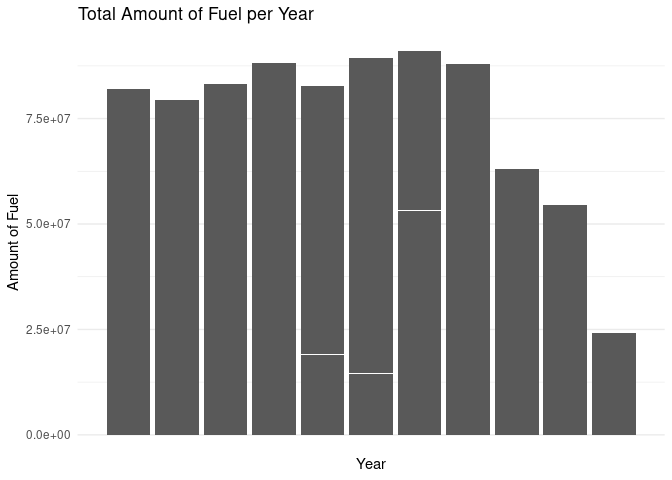
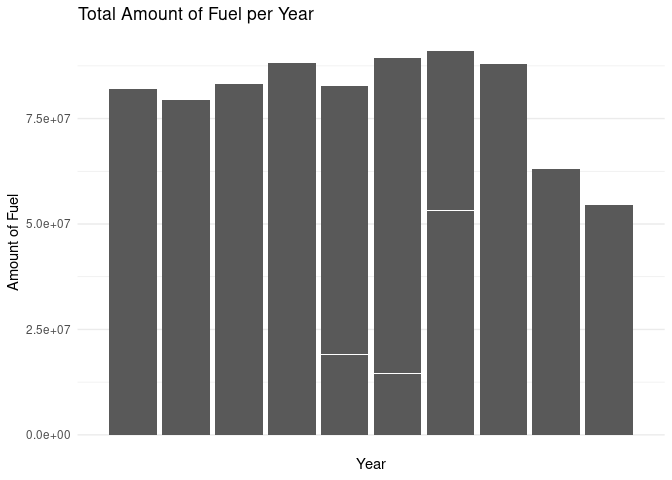
Change data cleaning steps

diff --git a/memo/memo.md b/memo/memo.md
@@ -57,7 +57,7 @@ left_join(area)
 
     ## Joining with `by = join_by(Building)`
 
-### Step 2: Change Delivery Date
+### Step 2: Change Delivery Date & Remove top extra row
 
 ``` r
 fuels <- fuels |>
@@ -119,15 +119,7 @@ fuels <- fuels |>
   mutate(Unit_cost = as.numeric(Unit_cost))
 ```
 
-### Step 7: Add total gallons per building variable
-
-``` r
-# fuels <- fuels |>
- #  group_by(Building) |>
- #  mutate(Total_Gallons_per_Building = sum(Gallons))
-```
-
-### Step 8: Add year and month variables
+### Step 7: Add year and month variables
 
 ``` r
 fuels <- fuels |>
@@ -137,23 +129,7 @@ fuels <- fuels |>
   mutate(Month = as.numeric(Month))
 ```
 
-### Step 9: Add total gallons per fuel type variable
-
-``` r
-fuels <- fuels |>
-  group_by(Fuel_type) |>
-  mutate(Total_Gallons_per_Fuel_Type = sum(Gallons))
-```
-
-### Step 10: Add total gallons per year variable
-
-``` r
-fuels <- fuels |>
-  group_by(Year) |>
-  mutate(Total_Gallons_per_year = sum(Gallons))
-```
-
-### Step 11: Change square feet to numeric
+### Step 8: Change square feet to numeric
 
 ``` r
 fuels <- fuels |>
@@ -165,48 +141,33 @@ fuels <- fuels |>
   mutate(Square_feet = as.numeric(Square_feet))
 ```
 
-### Step 12: Add total gallons per square foot
-
-``` r
-# fuels <- fuels |>
- # mutate(total_per_sf = (Total_Gallons_per_Building / Square_feet))
-```
-
 ### Step ?: Ignore for now I’m working on it but am confused
 
+``` r
 # make one big function
 
-# main_total_fuels \<- data.frame(
-
-# Building = unique(fuels$Building),
+# main_total_fuels <- data.frame(
+#  Building = unique(fuels$Building),
 #  Total_Gallons = unique(fuels$Total_Gallons_per_Building)
-
 # )
 
-# main_total_fuels \|\>
+# main_total_fuels |>
+#   filter(Building == c("Witchcliff Apartments", "Witchcliff","Studio 5+6","PRF",
+#                        "Pottery Studio","Peggy Barn", "Peach House", "Hatchery", "Greenhouse", 
+#                        "Davis Carriage", "Cottage", "CHE Generator", "Carriage", 
+#                        "BHF New Greenhouse", "BHF Main Bldg/2 Greenhouse", "BHF Farm House", 
+#                        "18B Norris Ave", "171 Beech Hill Road", "14 Norris Ave")) |>
+#   (Other_Gallons <- sum(Total_Gallons))
 
-# filter(Building == c(“Witchcliff Apartments”, “Witchcliff”,“Studio 5+6”,“PRF”,
+# with(main_total_fuels, sum(Total_Gallons[Total_Gallons < 9952.2]))
 
-# “Pottery Studio”,“Peggy Barn”, “Peach House”, “Hatchery”, “Greenhouse”,
+# main_total_fuels <- main_total_fuels |>
+#  add_row(Building = "Other", 
+#          Total_Gallons = with(main_total_fuels, sum(Total_Gallons[Total_Gallons < #9952.2])))
 
-# “Davis Carriage”, “Cottage”, “CHE Generator”, “Carriage”,
-
-# “BHF New Greenhouse”, “BHF Main Bldg/2 Greenhouse”, “BHF Farm House”,
-
-# “18B Norris Ave”, “171 Beech Hill Road”, “14 Norris Ave”)) \|\>
-
-# (Other_Gallons \<- sum(Total_Gallons))
-
-# with(main_total_fuels, sum(Total_Gallons\[Total_Gallons \< 9952.2\]))
-
-# main_total_fuels \<- main_total_fuels \|\>
-
-# add_row(Building = “Other”,
-
-          Total_Gallons = with(main_total_fuels, sum(Total_Gallons[Total_Gallons < #9952.2])))
-
-\#main_total_fuels \<- main_total_fuels \|\> \# filter(Total_Gallons \>=
-9952.2 \| Building == “Other”)
+#main_total_fuels <- main_total_fuels |>
+#  filter(Total_Gallons >= 9952.2 | Building == "Other")
+```
 
 ## Plots
 
@@ -278,7 +239,10 @@ ggplot(aes(y = Building, x = Total_Gallons_per_Building)) +
 ### Plot 3: A bunch that I’ll rename and clean up later
 
 ``` r
-ggplot(fuels, aes(x = Fuel_type, y = Total_Gallons_per_Fuel_Type)) +
+fuels |>
+  group_by(Fuel_type) |>
+  mutate(Total_Gallons_per_Fuel_Type = sum(Gallons)) |>
+ggplot(aes(x = Fuel_type, y = Total_Gallons_per_Fuel_Type)) +
   geom_col() +
   scale_x_discrete(guide = guide_axis(angle = 45)) +
   theme_minimal() +
@@ -288,10 +252,14 @@ ggplot(fuels, aes(x = Fuel_type, y = Total_Gallons_per_Fuel_Type)) +
        y = "Amount of Fuel")
 ```
 
-![](memo_files/figure-gfm/gallons_per_type-1.png)<!-- -->
+![](memo_files/figure-gfm/gallons_per_fuel_type-1.png)<!-- -->
 
 ``` r
-ggplot(fuels, aes(x = Year, y = Total_Gallons_per_Fuel_Type)) +
+fuels |>
+  group_by(Fuel_type) |>
+  mutate(Total_Gallons_per_Fuel_Type = sum(Gallons)) |>
+  filter(Year != 2024) |>
+  ggplot(aes(x = Year, y = Total_Gallons_per_Fuel_Type)) +
   geom_col() +
   scale_x_discrete(guide = guide_axis(angle = 45)) +
   theme_minimal() +
